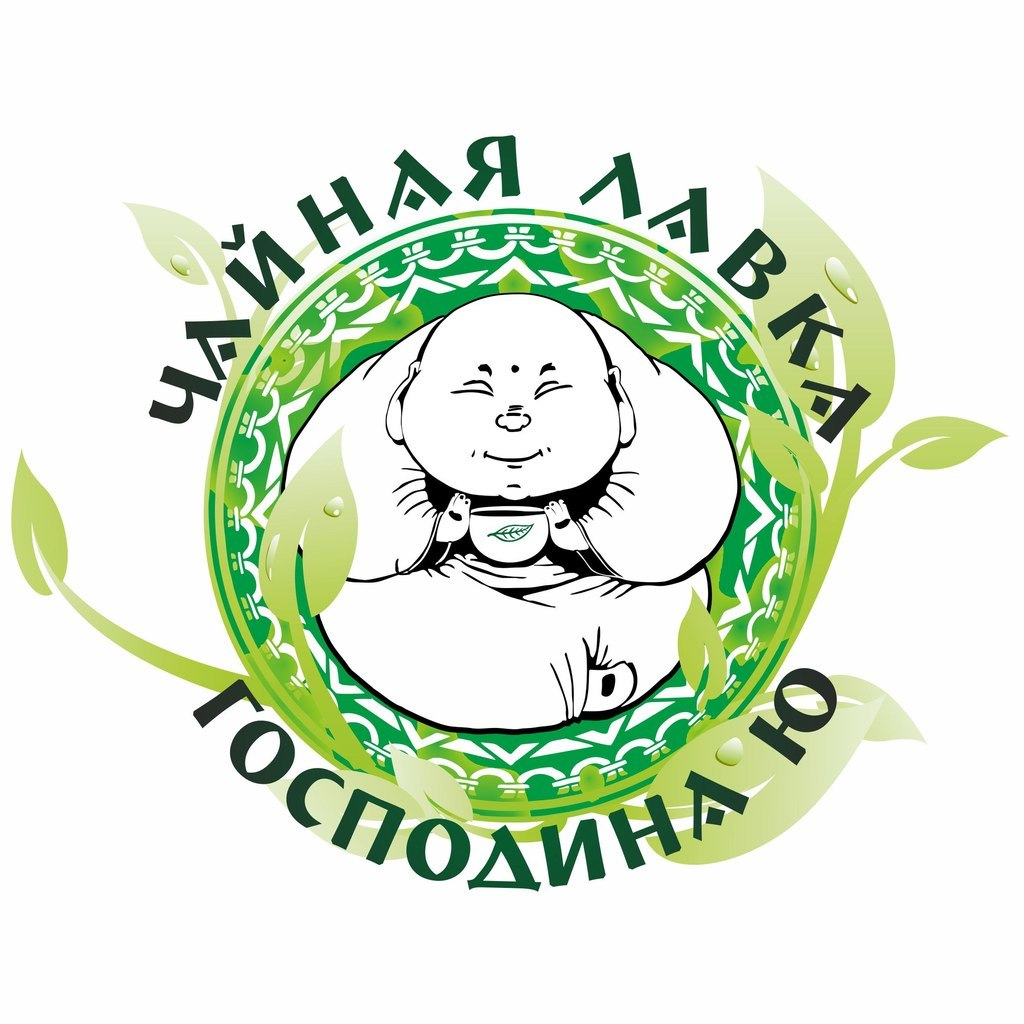
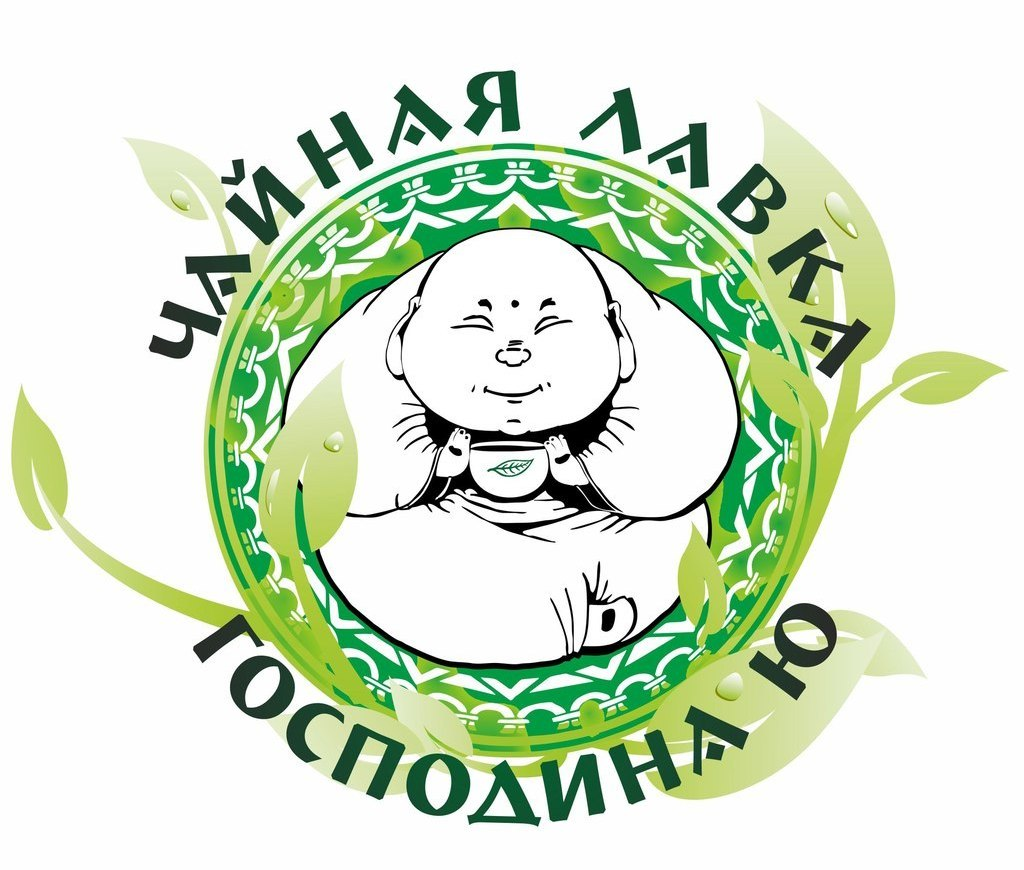
index_1.0

Changed region(s): [[0.0, 0.0621, 0.9688, 0.9621], [0.3125, 0.4655, 0.3438, 0.5276], [0.0, 0.4345, 0.0312, 0.4655]]

diff --git a/black-white/index.html b/black-white/index.html
@@ -129,25 +129,35 @@
 	</div>
 </div> <!-- gallery_end -->
 
-<div class="container">
+<div class="container"> <!-- form_bot -->
 	<div class="row">				
 		<div class="col-lg-12">
 		 	<div class="main_form">
 				<form>
 						<h2>Закажите звонок</h2>
-						<input type="text" name="name" placeholder=" Ваше имя..." required>
-						<input type="text" name="tel" placeholder=" Телефон..." required>
+						<input type="text" name="name" placeholder=" Ваше имя" required>
+						<input type="text" name="tel" placeholder=" Телефон" required>
 							<br>
-						<textarea name="text" placeholder=" Другие способы связи..."></textarea>
+						<textarea name="text" placeholder=" Другие способы связи"></textarea>
 						<button>Заказать</button>
 				</form>
 			</div>
 		</div>
 	</div>
-</div>
+</div> <!-- form_bot end -->
 
-
-
+<footer>
+	<div class="container">
+		<div class="row">
+			<div class="col-lg-12">
+				<div class="contacts">
+					<p><i class="fa fa-phone" aria-hidden="true"></i> +375 44 72-1111-0</p>
+					<p><i class="fa fa-envelope-open-o" aria-hidden="true"></i> chaynayalavkau@gmail.com</p>
+				</div>
+			</div>
+		</div>
+	</div>
+</footer>
 
 
 

diff --git a/black-white/css/main.css b/black-white/css/main.css
@@ -100,7 +100,7 @@ ul.top_links  {
 
 div.logo {
 	width: 70%;
-	margin: 45px auto 35px auto;
+	margin: 20px auto 35px auto;
 }
 
 .logo img {
@@ -190,13 +190,13 @@ font-family: 'a_Bremen', arial;
  	border: 1px solid rgba(0, 0, 0, .6);
 }
 
-.main_form input[placeholder=" Ваше имя..."] {
+.main_form input[placeholder=" Ваше имя"] {
 	width: 47.45%;
  	margin: 15px 0;
  	height: 35px;
 }
 
-.main_form input[placeholder=" Телефон..."] {
+.main_form input[placeholder=" Телефон"] {
 	width: 47.45%;
  	margin: 15px 0;
  	margin-left: 4.3%;
@@ -229,4 +229,24 @@ border: 1px solid rgba(0, 0, 0, .6);
 	background-color: rgba(232, 232, 232, .8);
 	border: 1px solid black;
 	outline: none;
+}
+
+footer {
+	background: rgba(251, 238, 141, .3);
+	border-top: 1px solid rgba(0, 0, 0, .6);
+}
+
+.contacts {
+ float: right;
+ padding: 5px;
+}
+
+.contacts p {
+	font-size: 12px;
+	margin: 0;
+	padding: 2px;
+}
+
+.contacts i {
+	font-size:16px;	
 }

diff --git a/black-white/css/media.css b/black-white/css/media.css
@@ -56,14 +56,14 @@
 
 }
 
-.main_form input[placeholder=" Ваше имя..."] {
+.main_form input[placeholder=" Ваше имя"] {
 	min-width: 250px;
 	width: 70%;
 	display: block;
 	margin: 15px auto;
 }
 
-.main_form input[placeholder=" Телефон..."] {
+.main_form input[placeholder=" Телефон"] {
 	min-width: 250px;
 	width: 70%;
 	display: block;
